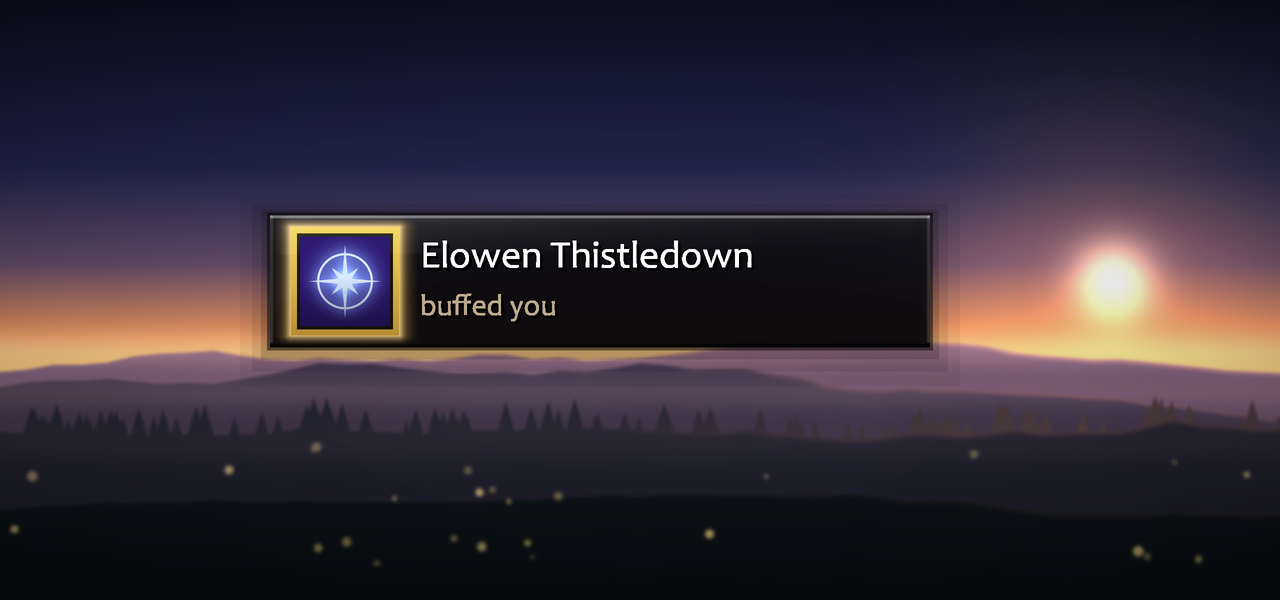
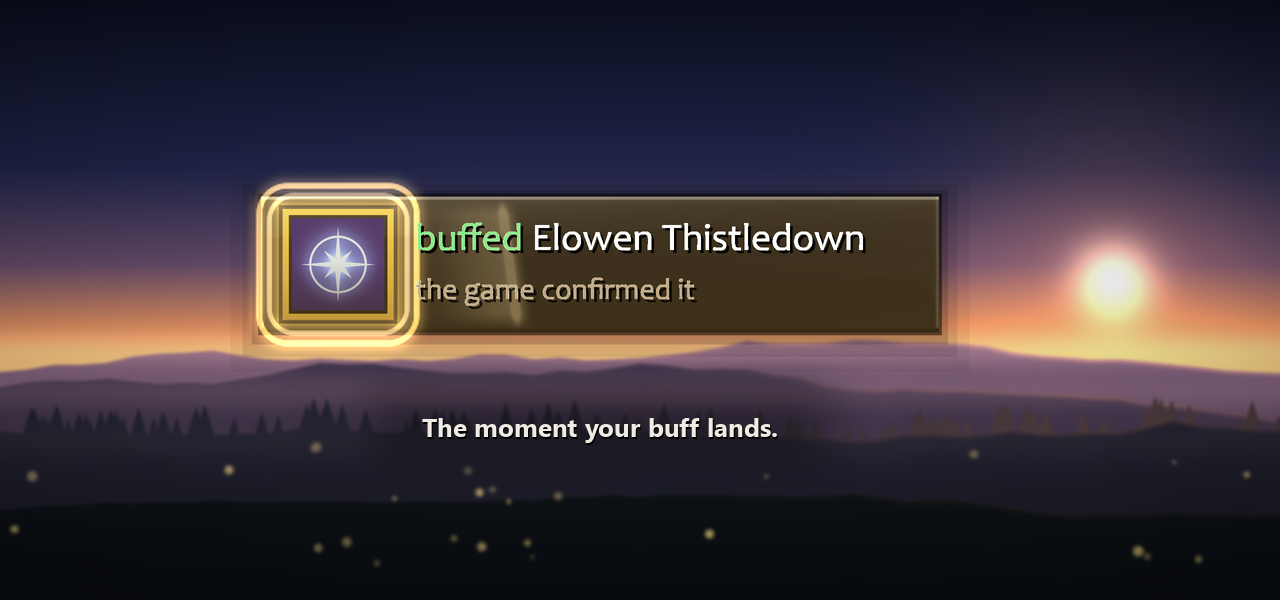
Media: the hero shows the landed moment, and a film strip of three moments

Changed region(s): [[0.1875, 0.27, 0.75, 0.6], [0.3125, 0.69, 0.625, 0.75]]

diff --git a/tools/make-screenshots.py b/tools/make-screenshots.py
@@ -19,7 +19,8 @@ window (found in the frame tree).
 
 What it writes, all 1280 pixels wide:
 
-    manners-prompt.png     somebody who buffed you, with the glow
+    manners-prompt.png     the moment your buff lands, rings and sweep
+    manners-moment.png     film strips: they buffed you, it lands, it is refused
     manners-reasons.png    the five reasons somebody is offered, each in its colour
     manners-looks.png      the same favour in each of the six looks, named
     manners-ledger.png     the favour ledger with a day of ordinary play in it
@@ -362,6 +363,34 @@ local added = {
 		boot(ns, { nameplate1 = ELOWEN })
 		owe(ns, "Elowen Thistledown")
 		settle(ns)
+	end },
+	-- The hero's moment: that same favour returned, the cast confirmed. The
+	-- queue is read before the outcome is painted, so ShotTop is still the
+	-- favour the button was about to return; what the prompt then shows is
+	-- the addon's own outcome for a buff that landed. The time is where the
+	-- landing reads best: the rings off the icon spread, the sweep crossing
+	-- the panel, the words fully drawn.
+	{ key = "shot-landed", at = 0.20, setup = function(ns)
+		boot(ns, { nameplate1 = ELOWEN })
+		owe(ns, "Elowen Thistledown")
+		settle(ns)
+		ns.Prompt:ShowOutcome("cast", "Elowen Thistledown")
+		FrameTree.settle()
+	end },
+	-- The three moments of the film strip, each from the one favour: it
+	-- arrives, the buff lands, the game refuses it. Which frame is taken is
+	-- the picture's choice (`--at`), not the state's.
+	{ key = "shot-moment-arrival", at = 0.05, setup = function(ns)
+		boot(ns, { nameplate1 = ELOWEN })
+		owe(ns, "Elowen Thistledown")
+		settle(ns)
+	end },
+	{ key = "shot-moment-refused", at = 0.15, setup = function(ns)
+		boot(ns, { nameplate1 = ELOWEN })
+		owe(ns, "Elowen Thistledown")
+		settle(ns)
+		ns.Prompt:ShowOutcome("failed", "Elowen Thistledown", "Out of range.")
+		FrameTree.settle()
 	end },
 	{ key = "shot-target", at = 0.85, setup = function(ns)
 		boot(ns, { target = BRAM })
@@ -1530,6 +1559,32 @@ REASONS = [
     ("shot-nearby", "Sable Harrow", "nearby", "Passing by",
      "A stranger close enough to buff, missing yours."),
 ]
+# The hero: the favour returned, the cast confirmed, at the frame where the
+# landing reads best (the rings off the icon spread into two, the light sweep
+# started across the panel, the words fully drawn). Earlier the rings are
+# tight and the words still fading in; later the rings have thinned out and the
+# sweep is off the panel. It is the state's own time, so this is where
+# the state is built.
+LANDED_AT = 0.20
+LANDED_WORDS = ["buffed Elowen Thistledown", "the game confirmed it"]
+
+# The film strip: one favour, three moments, four frames of each. A row is the
+# state, the title and caption it carries, and the two lines the prompt has to
+# be saying -- and the words it must not, which would make the row's title
+# untrue. The frames are the renderer's, taken at these times (--at).
+MOMENT_TIMES = (0.05, 0.15, 0.30, 0.60)
+MOMENTS = [
+    ("shot-moment-arrival", "They buffed you",
+     "The favour arrives and the glow wakes.",
+     ["Elowen Thistledown", "buffed you"], ["buffed Elowen", "could not buff"]),
+    ("shot-landed", "Your buff lands",
+     "Rings off the icon, a sweep across the panel.",
+     LANDED_WORDS, ["buffed you", "could not buff"]),
+    ("shot-moment-refused", "The game refused it",
+     "The panel says why, in a few words.",
+     ["could not buff Elowen Thistledown", "Out of range."], ["buffed Elowen", "confirmed"]),
+]
+
 # Who the translated pictures' list rows name, as PROMPT_STATES' shot-list puts
 # them there.
 LIST_ROWS = ["Mira Holt", "Tam Rook", "Ivo Lark"]
@@ -1699,6 +1754,31 @@ def build(addon_dir):
             expect_names(key, texts, [name])
             check_glyphs(key, texts)
             snaps[key] = snap
+    # The hero and the film strip: the same favour at the moments the pictures
+    # show. Every frame is held to what its row's title says, so a frame that
+    # shows the arrival under "Your buff lands" is caught rather than drawn.
+    snap, top = snap_of(R, lua, "shot-landed")
+    if snap:
+        expect_top("shot-landed", top, "Elowen Thistledown", "owed")
+        texts = shown_texts(snap, PromptTree)
+        expect_names("shot-landed", texts, LANDED_WORDS)
+        check_glyphs("shot-landed", texts)
+        snaps["shot-landed"] = snap
+    for key, _, _, words, never in MOMENTS:
+        for t in MOMENT_TIMES:
+            frame = "%s@%.2f" % (key, t)
+            snap, top = snap_of(R, lua, key, t)
+            if not snap:
+                continue
+            expect_top(frame, top, "Elowen Thistledown", "owed")
+            texts = shown_texts(snap, PromptTree)
+            expect_names(frame, texts, words)
+            joined = "\n".join(texts)
+            for gone in never:
+                if gone in joined:
+                    problem("%s: the prompt says %r, which is not this moment" % (frame, gone))
+            check_glyphs(frame, texts)
+            snaps[frame] = snap
     for key in ("shot-palette-standard", "shot-palette-colourblind"):
         snap, top = snap_of(R, lua, key)
         if snap:
@@ -1770,8 +1850,60 @@ def build(addon_dir):
 
 
 def picture_prompt(snaps):
+    """The first picture on the page, so the addon at its best moment: the buff
+    has landed and the panel is mid-celebration. No heading; one line under it."""
     board = Board(600, seed=11, sun=(0.87, 0.47))
-    board.centre(prompt_layer("shot-owed", snaps["shot-owed"], 3.0), WIDTH / 2 - 40, 290)
+    layer = prompt_layer("shot-landed", snaps["shot-landed"], 3.0)
+    cx = WIDTH / 2 - 40
+    board.centre(layer, cx, 270)
+    below = 270 + layer.size[1] / 2
+    board.shade(cx - 230, below + 22, cx + 230, below + 82, 0.4)
+    board.text((cx, below + 52), "The moment your buff lands.", 26, bold=True, anchor="mm")
+    return board
+
+
+def picture_moment(snaps):
+    """Three moments of one favour, a row of four frames each: the real
+    renderer's output at 0.05, 0.15, 0.30 and 0.60 s after the moment. Drawn
+    at the game's own size, because four panels at twice that do not fit the
+    page's width; the titles and a caption stand to the left."""
+    zoom = 1.0
+    rows = []
+    for key, *_ in MOMENTS:
+        rows.append([prompt_layer("%s@%.2f" % (key, t), snaps["%s@%.2f" % (key, t)], zoom)
+                     for t in MOMENT_TIMES])
+    # A strip whose frames are all alike is one that ignored its times.
+    for (key, *_), frames in zip(MOMENTS, rows):
+        for i, a in enumerate(frames):
+            for j in range(i + 1, len(frames)):
+                if a.add.shape == frames[j].add.shape and np.array_equal(a.add, frames[j].add):
+                    problem("manners-moment.png: %s is the same at %.2f s and %.2f s"
+                            % (key, MOMENT_TIMES[i], MOMENT_TIMES[j]))
+    fw = max(l.size[0] for frames in rows for l in frames)
+    fh = max(l.size[1] for frames in rows for l in frames)
+    gap = 4
+    left = WIDTH - 24 - 4 * fw - 3 * gap
+    top = 150
+    row = fh + 36
+    board = Board(top + row * len(rows) + 14, seed=19, sun=(0.50, 0.55))
+    heading(board, "Three moments",
+            "One favour, four frames of each: 0.05, 0.15, 0.30 and 0.60 seconds in.")
+    for n, ((_, title, line, _, _), frames) in enumerate(zip(MOMENTS, rows)):
+        y = top + row * n
+        board.shade(18, y - 6, WIDTH - 12, y + fh + 30, 0.4)
+        board.text((30, y + 10), title, 21, bold=True)
+        for k, text in enumerate(wrap_line(line, 16, left - 30 - 20)):
+            board.text((30, y + 44 + k * 21), text, 16, fill=(214, 206, 214))
+        for i, (t, layer) in enumerate(zip(MOMENT_TIMES, frames)):
+            x = left + i * (fw + gap)
+            # Every frame by the button's top left, so the panel stands still
+            # on the page and only what the addon animates moves: the layer
+            # is wider on the side a ring has spread to.
+            snap = snaps["%s@%.2f" % (MOMENTS[n][0], t)]
+            left_, _, _, top_ = PromptTree(snap).rect(snap["button"])
+            ax, ay = layer.at(left_, top_)
+            board.place(layer, x + 14 - ax, y + 14 - ay)
+            board.text((x + fw / 2, y + fh + 6), "%.2f s" % t, 14, fill=(190, 184, 196), anchor="mm")
     return board
 
 
@@ -2022,6 +2154,7 @@ def picture_yourself(snaps):
 
 PICTURES = [
     ("manners-prompt.png", picture_prompt),
+    ("manners-moment.png", picture_moment),
     ("manners-reasons.png", picture_reasons),
     ("manners-looks.png", picture_looks),
     ("manners-ledger.png", picture_ledger),

diff --git a/.github/wago-description.md b/.github/wago-description.md
@@ -1,6 +1,8 @@
 **Somebody buffed you. One click buffs them back, and your target is handed straight back.**
 
-![The prompt: a dark panel naming Elowen Thistledown, who buffed you, with a gold glow round the spell icon](https://raw.githubusercontent.com/fpsacha/Manners/master/.github/media/manners-prompt.png)
+![The prompt as your buff lands: a dark panel reading buffed Elowen Thistledown and the game confirmed it, two gold rings spreading off the spell icon and a light sweep crossing the panel](https://raw.githubusercontent.com/fpsacha/Manners/master/.github/media/manners-prompt.png)
+
+![Three film strips of the prompt, four frames each: somebody buffed you, your buff lands, the game refuses it](https://raw.githubusercontent.com/fpsacha/Manners/master/.github/media/manners-moment.png)
 
 A priest buffs you in passing, and by the time you have picked them out of a dozen nameplates they are gone. Manners saw who it was and put them on one button: click it, they get their buff, and your own target comes straight back. The same button offers your group, people who ask in chat, and passers-by missing your buff, and it looks after you too, down to the poison or oil for each weapon. `/manners` opens **Start here**: four numbered steps and one key.
 

diff --git a/.github/gallery.md b/.github/gallery.md
@@ -1,6 +1,7 @@
 | File | Title | Description |
 |---|---|---|
-| `manners-prompt.png` | Buff them back in one click | Somebody buffed you. Manners puts them on one button, glowing until the favour is returned. |
+| `manners-prompt.png` | Buff them back in one click | Somebody buffed you; one click buffs them back. Shown as your buff lands. |
+| `manners-moment.png` | Three moments | Film strips of one favour, four frames each: somebody buffs you, your buff lands, the game refuses it. Frames at 0.05, 0.15, 0.30 and 0.60 seconds. |
 | `manners-reasons.png` | Why somebody is on the prompt | Your target, somebody who buffed you, somebody who asked in chat, your group, and passers-by missing your buff -- each in its own colour, offered in that order. |
 | `manners-list.png` | Click any name | Switch on List the next few below (Look) and every name under the prompt is a button, with the icon of the buff they would get. Left-click buffs that person, right-click skips them for now, shift-right-click never offers them again. |
 | `manners-yourself.png` | Your own buffs too | When your own armor, poison or buff is missing, you come up on the prompt as "You": a mage's armor, a rogue's poison for the main hand, your own Arcane Intellect. |

diff --git a/.github/curseforge-description.md b/.github/curseforge-description.md
@@ -1,6 +1,8 @@
 **Somebody buffed you. One click buffs them back, and your target is handed straight back.**
 
-![The prompt: a dark panel naming Elowen Thistledown, who buffed you, with a gold glow round the spell icon](https://raw.githubusercontent.com/fpsacha/Manners/master/.github/media/manners-prompt.png)
+![The prompt as your buff lands: a dark panel reading buffed Elowen Thistledown and the game confirmed it, two gold rings spreading off the spell icon and a light sweep crossing the panel](https://raw.githubusercontent.com/fpsacha/Manners/master/.github/media/manners-prompt.png)
+
+![Three film strips of the prompt, four frames each: somebody buffed you, your buff lands, the game refuses it](https://raw.githubusercontent.com/fpsacha/Manners/master/.github/media/manners-moment.png)
 
 A priest buffs you in passing. By the time you have picked them out of a dozen nameplates, they are gone. Manners saw who it was, worked out what you owe them and put one button on screen. Click it, or press your key: they get their buff, your own target comes straight back, and the favour is remembered through a reload or a disconnect.
 

diff --git a/README.md b/README.md
@@ -8,7 +8,9 @@ straight back.**
 [![Wago](https://img.shields.io/badge/Wago-Manners-c1272d)](https://addons.wago.io/addons/rNkgzlNa)
 [![Licence: MIT](https://img.shields.io/badge/licence-MIT-blue)](LICENSE)
 
-<img src=".github/media/manners-prompt.png" alt="The prompt: a dark panel naming Elowen Thistledown, who buffed you, with a gold glow round the spell icon" width="640">
+<img src=".github/media/manners-prompt.png" alt="The prompt as your buff lands: a dark panel reading buffed Elowen Thistledown and the game confirmed it, two gold rings spreading off the spell icon and a light sweep crossing the panel" width="640">
+
+<img src=".github/media/manners-moment.png" alt="Three film strips of the prompt, four frames each: somebody buffed you, your buff lands, the game refuses it" width="640">
 
 A priest buffs you in passing. By the time you have picked them out of a dozen
 nameplates, they are gone. Manners saw who it was, worked out what you owe them

diff --git a/tools/README.md b/tools/README.md
@@ -504,7 +504,8 @@ The listing images for CurseForge, Wago and the README, all 1280 wide:
 
 | File | Shows |
 |---|---|
-| `manners-prompt.png` | the prompt for somebody who buffed you, glowing |
+| `manners-prompt.png` | the moment your buff lands: the confirmed prompt 0.20 s in, rings off the icon and the sweep crossing the panel |
+| `manners-moment.png` | film strips of one favour in Glass, four frames each (0.05, 0.15, 0.30, 0.60 s): they buffed you, your buff lands, the game refused it |
 | `manners-reasons.png` | the five reasons somebody is offered, each in its colour, in the order they rank |
 | `manners-looks.png` | the same favour in each of the six looks, named |
 | `manners-ledger.png` | the favour ledger with a day of ordinary play in it |

diff --git a/RELEASING.md b/RELEASING.md
@@ -151,7 +151,7 @@ so they show inline only once `master` holds them.
 The images are generated rather than captured: `python tools/make-icon.py` and
 `python tools/make-screenshots.py`. See `tools/README.md`.
 
-The nine screenshots -- `manners-prompt.png`, `manners-reasons.png`,
+The ten screenshots -- `manners-prompt.png`, `manners-moment.png`, `manners-reasons.png`,
 `manners-list.png`, `manners-yourself.png`, `manners-options.png`,
 `manners-looks.png`, `manners-ledger.png`, `manners-languages.png` and
 `manners-palette.png` in `.github/media/` -- go into the CurseForge and Wago
